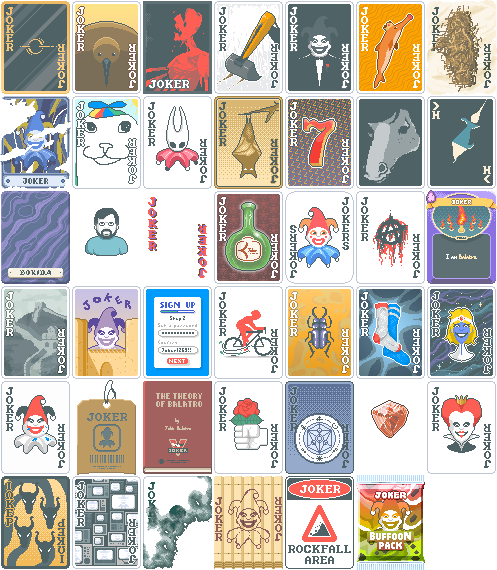
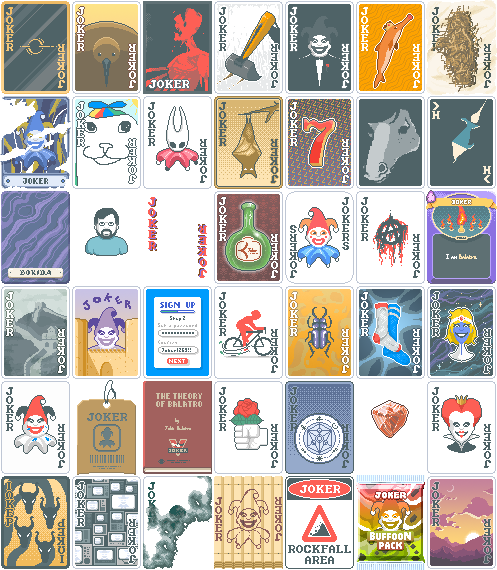
new joker and art of war tweak

Changed region(s): [[0.8451, 0.8351, 1.0, 1.0]]

diff --git a/README.md b/README.md
@@ -172,8 +172,13 @@ ___
 ___
 
 ### Art of War
+<<<<<<< Updated upstream
 ![image](https://github.com/user-attachments/assets/4cda4368-3d57-4896-b31f-e028e373105a)<br>
 **Non-scoring** played cards are drawn **first**<br>
+=======
+![image](https://github.com/user-attachments/assets/4ef505eb-bb79-4928-9eeb-f989ecfdd80a)<br>
+**Non-scoring** played cards are drawn **first**, **1 in 3** chance to add a permanent copy to deck and draw it to **hand**<br>
+>>>>>>> Stashed changes
 ___
 
 # Rare
@@ -213,6 +218,11 @@ ___
 ### Collector Booster
 ![image](https://github.com/user-attachments/assets/8eb685a8-d652-4b3d-8a37-4e985c882ec2)<br>
 All Jokers in **Shop** and **Booster** are **Uncommon**<br>
+___
+
+### Dawn
+On **first hand** of round, every played **card** permanently gains **+15** Chips for each remaining **discard** when scored<br>
+*(Currenly +0 Chips)*<br>
 ___
 
 # Legendary
